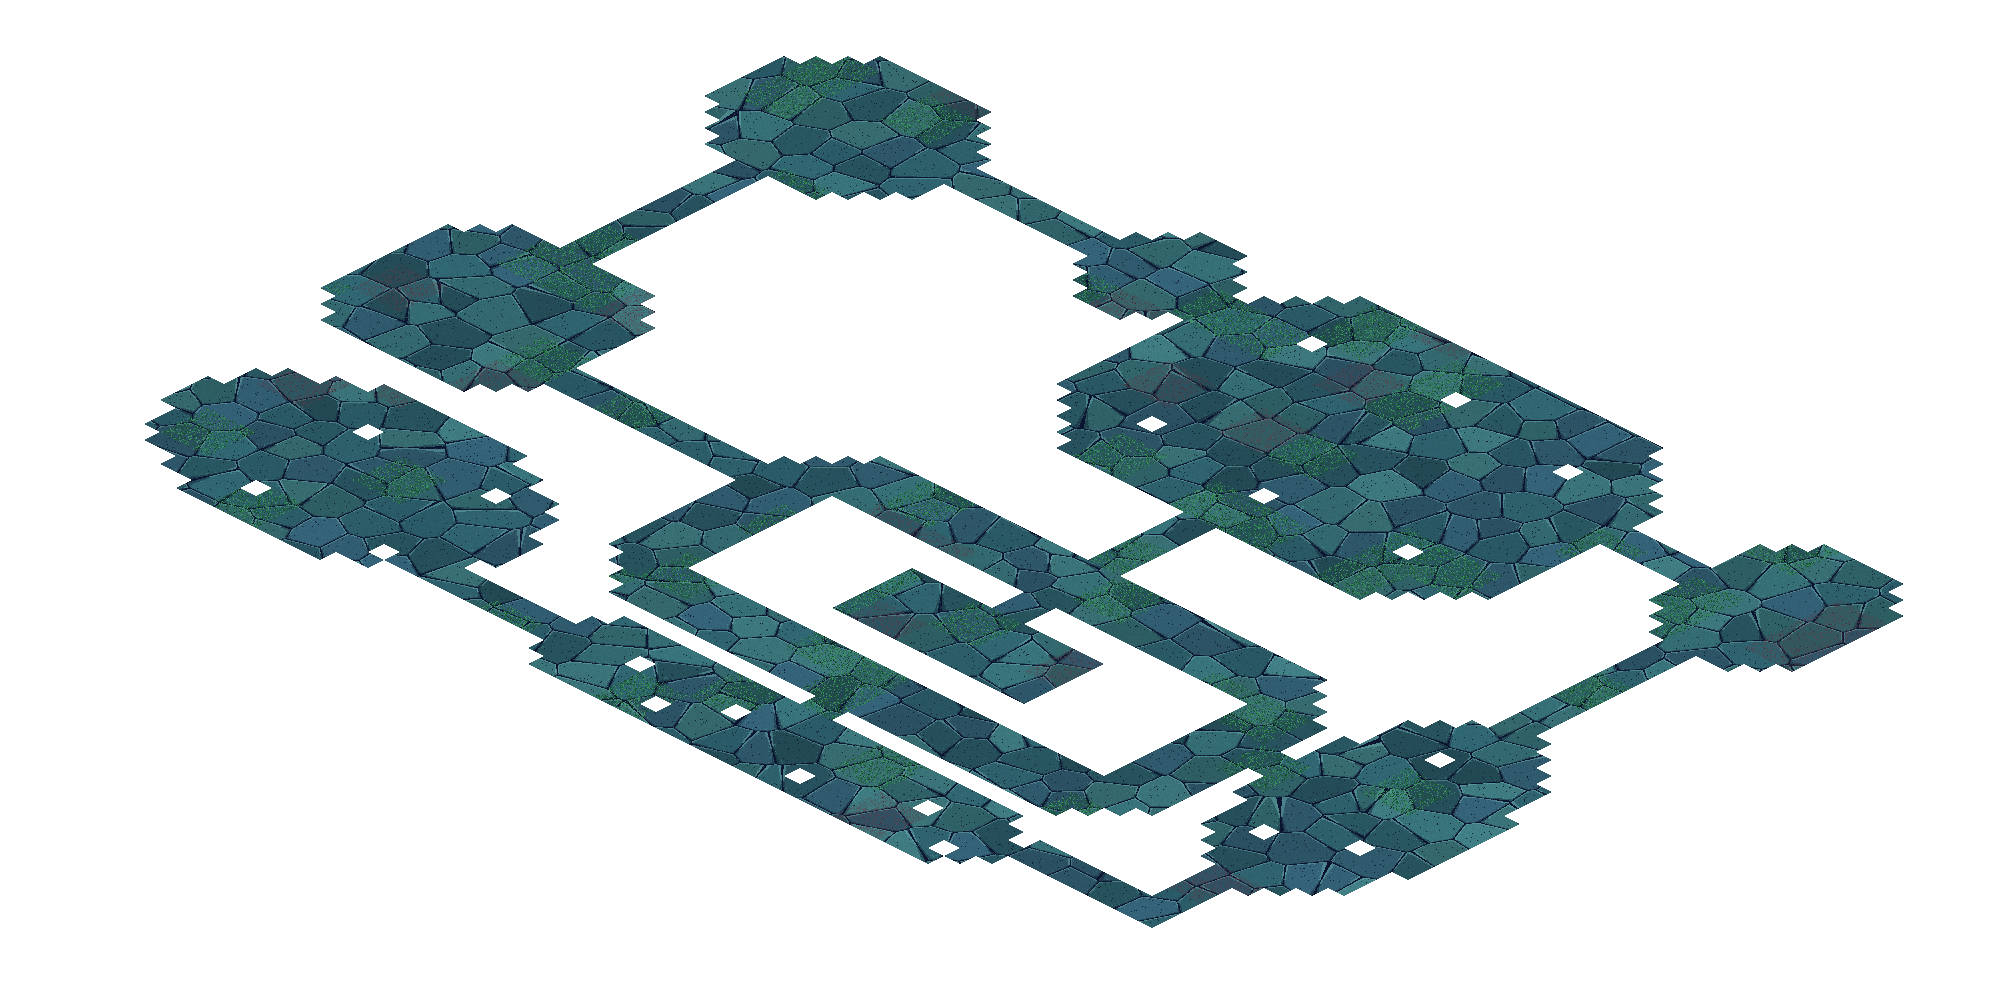
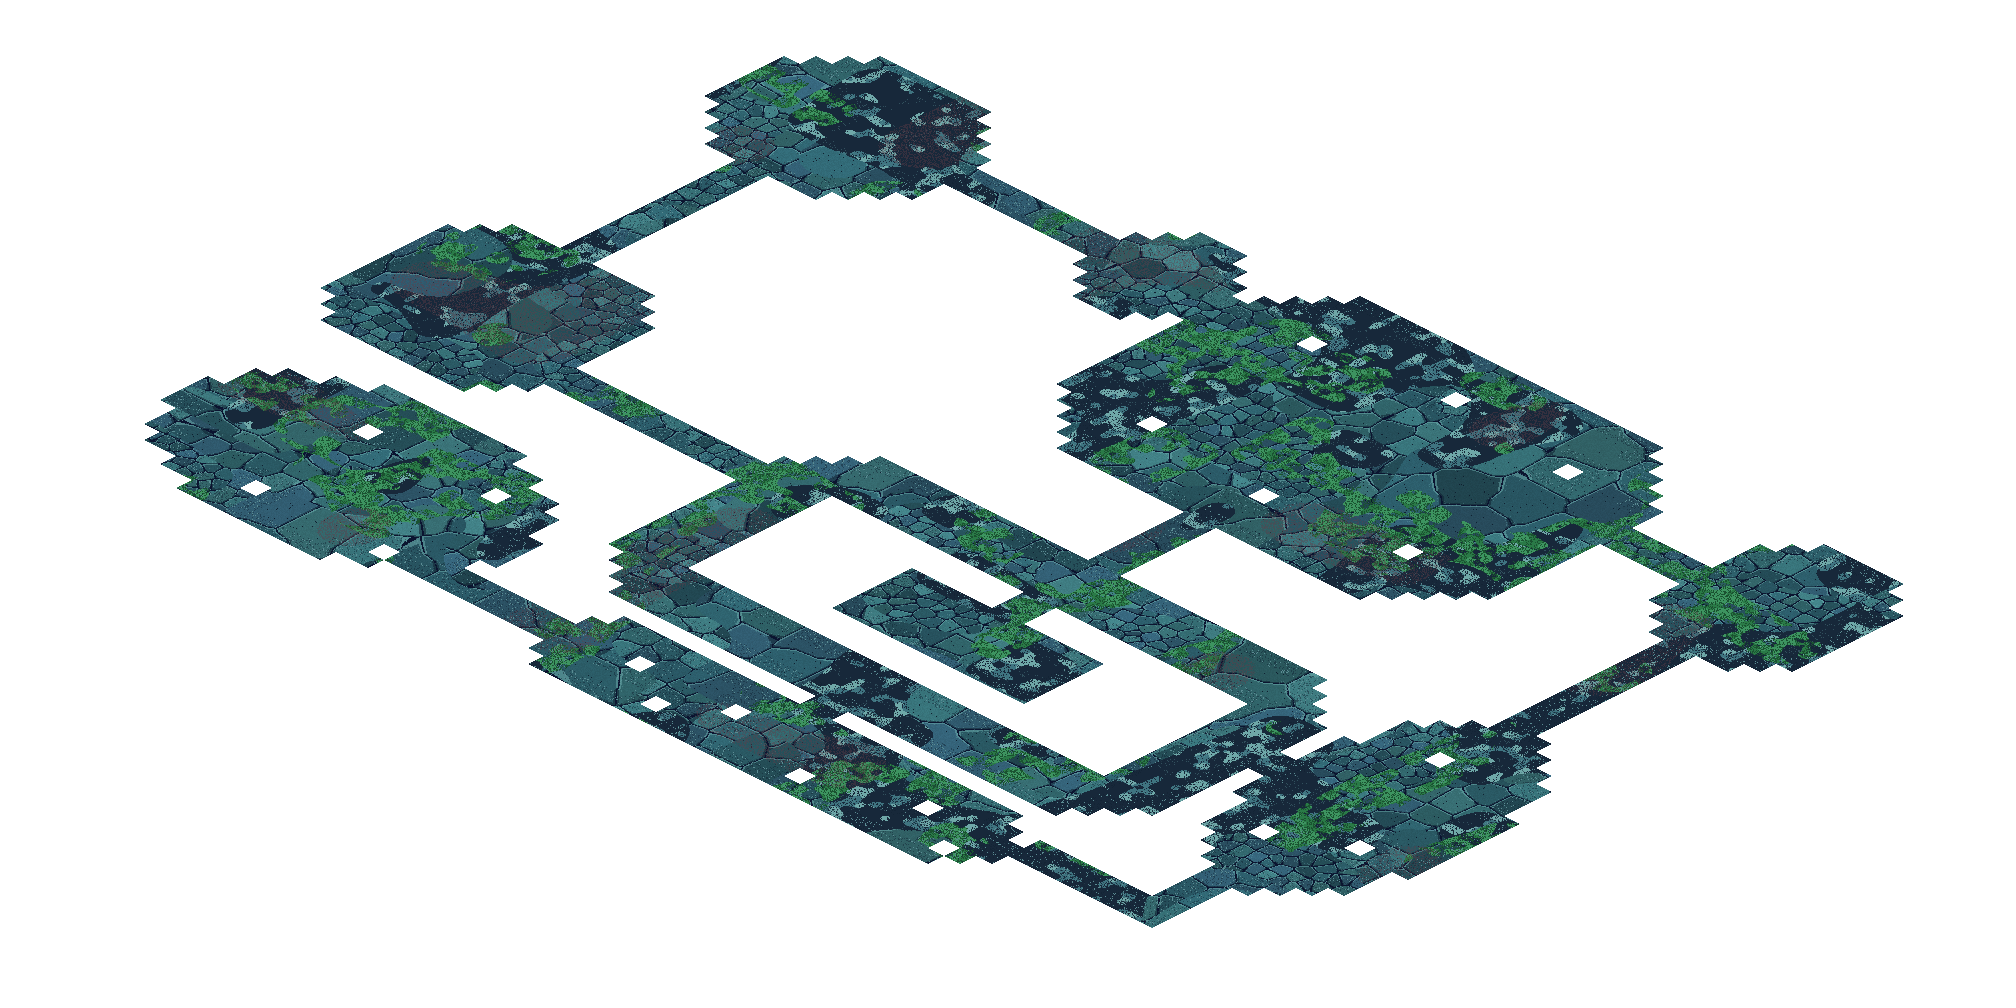
床の絵: 大小の石・がれき・苔の区画・壁ぎわの欠けを混ぜる

Changed region(s): [[0.0625, 0.0615, 0.9375, 0.9226]]

diff --git a/tools/tiles/make_floor_mural.py b/tools/tiles/make_floor_mural.py
@@ -50,73 +50,120 @@ for y, r in enumerate(rows):
         grid[y, x] = c != '#'
 floor[inside] = grid[cv[inside], cu[inside]]
 
-# ---- 不規則な石：ずらした格子点の最近傍（ボロノイ）。石の大きさは約 1.6〜2.6 マス ----
-CELL = 2.1
-gx = np.floor(u / CELL).astype(int)
-gy = np.floor(v / CELL).astype(int)
+# ---- 値ノイズ（なめらかな、場所ごとの偏り。大きな石の区画・がれきの区画・苔の区画に使う）----
+def value_noise(scale, seed):
+    r = np.random.default_rng(seed)
+    g = r.random((int(H / scale) + 3, int(W / scale) + 3)).astype(np.float32)
+    fu = u / scale
+    fv = v / scale
+    iu = np.clip(np.floor(fu).astype(int), 0, g.shape[1] - 2)
+    iv = np.clip(np.floor(fv).astype(int), 0, g.shape[0] - 2)
+    tu = np.clip(fu - iu, 0, 1)
+    tv = np.clip(fv - iv, 0, 1)
+    tu = tu * tu * (3 - 2 * tu)
+    tv = tv * tv * (3 - 2 * tv)
+    a = g[iv, iu] * (1 - tu) + g[iv, iu + 1] * tu
+    b = g[iv + 1, iu] * (1 - tu) + g[iv + 1, iu + 1] * tu
+    return a * (1 - tv) + b * tv
 
 
-def seed_of(ix, iy):
-    h = (ix * 73856093) ^ (iy * 19349663) ^ 0x5bd1e995
-    h = (h ^ (h >> 13)) * 1274126177
-    h = h ^ (h >> 16)
-    a = ((h & 0xFFFF) / 65535.0) * 0.8 + 0.1
-    b = (((h >> 16) & 0xFFFF) / 65535.0) * 0.8 + 0.1
-    return (ix + a) * CELL, (iy + b) * CELL, (h >> 5) & 0xFF
+def voronoi(cell, angular, salt):
+    """格子ごとに1点をずらして置き、最近傍で石を分ける。angular が大きいほど四角っぽい石になる"""
+    gx = np.floor(u / cell).astype(int)
+    gy = np.floor(v / cell).astype(int)
+    best = np.full((IH, IW), 1e9, dtype=np.float32)
+    second = np.full((IH, IW), 1e9, dtype=np.float32)
+    bid = np.zeros((IH, IW), dtype=int)
+    bdx = np.zeros((IH, IW), dtype=np.float32)
+    bdy = np.zeros((IH, IW), dtype=np.float32)
+    for oy in (-1, 0, 1):
+        for ox in (-1, 0, 1):
+            ix, iy = gx + ox, gy + oy
+            h = (ix * 73856093) ^ (iy * 19349663) ^ salt
+            h = (h ^ (h >> 13)) * 1274126177
+            h = h ^ (h >> 16)
+            sx = (ix + ((h & 0xFFFF) / 65535.0) * 0.7 + 0.15) * cell
+            sy = (iy + (((h >> 16) & 0xFFFF) / 65535.0) * 0.7 + 0.15) * cell
+            dx = u - sx
+            dy = v - sy
+            d = (1 - angular) * np.sqrt(dx * dx + dy * dy) + angular * np.maximum(np.abs(dx), np.abs(dy)) * 1.15
+            better = d < best
+            second = np.where(better, best, np.minimum(second, d))
+            bdx = np.where(better, dx, bdx)
+            bdy = np.where(better, dy, bdy)
+            bid = np.where(better, (h >> 5) & 0xFFFF, bid)
+            best = np.where(better, d, best)
+    return second - best, bid, bdx, bdy
 
 
-best = np.full((IH, IW), 1e9, dtype=np.float32)
-second = np.full((IH, IW), 1e9, dtype=np.float32)
-best_id = np.zeros((IH, IW), dtype=int)
-best_dx = np.zeros((IH, IW), dtype=np.float32)
-best_dy = np.zeros((IH, IW), dtype=np.float32)
-for oy in (-1, 0, 1):
-    for ox in (-1, 0, 1):
-        sx, sy, sid = seed_of(gx + ox, gy + oy)
-        dx = u - sx
-        dy = v - sy
-        d = np.sqrt(dx * dx + dy * dy)
-        better = d < best
-        second = np.where(better, best, np.minimum(second, d))
-        best_dx = np.where(better, dx, best_dx)
-        best_dy = np.where(better, dy, best_dy)
-        best_id = np.where(better, sid, best_id)
-        best = np.where(better, d, best)
-gap = second - best
+noise = rng.random((IH, IW))
+region = value_noise(5.0, 11)    # 大きな石の区画 ↔ 小さな石の区画
+rubble_zone = value_noise(4.0, 23)  # がれき（小石の散らばり）の区画
+moss_zone = value_noise(3.5, 37)
+stain_zone = value_noise(6.0, 41)
 
-# ---- 色 ----
+gap_b, id_b, dx_b, dy_b = voronoi(3.0, 0.55, 0x1111)   # 大きな板石
+gap_m, id_m, dx_m, dy_m = voronoi(1.5, 0.30, 0x2222)   # 中くらいの石
+gap_s, id_s, dx_s, dy_s = voronoi(0.8, 0.10, 0x3333)   # 小さな石
+use_big = region > 0.55
+use_small = region < 0.30
+gap = np.where(use_big, gap_b, np.where(use_small, gap_s, gap_m))
+sid = np.where(use_big, id_b, np.where(use_small, id_s, id_m))
+sdx = np.where(use_big, dx_b, np.where(use_small, dx_s, dx_m))
+sdy = np.where(use_big, dy_b, np.where(use_small, dy_s, dy_m))
+width = np.where(use_big, 0.20, np.where(use_small, 0.13, 0.17))  # 縁の幅（マス）：大きな石ほど厚み
+
 img = np.zeros((IH, IW, 3), dtype=np.float32)
-tone_idx = best_id % len(STONE)
+tone_idx = sid % len(STONE)
 for i, col in enumerate(STONE):
     img[tone_idx == i] = col
-bright = 1.0 + ((best_id >> 3) % 7 - 3) * 0.035
+bright = 1.0 + ((sid >> 3) % 9 - 4) * 0.04
 img *= bright[..., None]
-noise = rng.random((IH, IW))
 img *= (1.0 + (noise - 0.5) * 0.10)[..., None]       # 石の粒
-# 目地と縁取り（左上の縁は明るく、右下の縁は暗く）
-edge = gap < 0.17
-facing = (best_dx + best_dy) > 0   # 石の中心から見て右下側＝影
-img[edge & ~facing] = img[edge & ~facing] * 0.55 + LIGHT * 0.45
-img[edge & facing] = img[edge & facing] * 0.55 + DARK * 0.45
-mortar = gap < 0.06
+# 地面（がれきの区画）：暗い土に、小石を散らす
+rub = rubble_zone > 0.62
+ground = np.where(rub[..., None], hx('#17283a'), img)
+img = ground
+pebble_id = value_noise(0.55, 77)
+pebble = rub & (pebble_id > 0.62) & (noise > 0.2)
+pebble_lit = pebble & (value_noise(0.55, 78) > 0.5)
+img[pebble] = hx('#3f7480')
+img[pebble_lit] = hx('#6fa8a8')
+# 縁取り：左上の縁は明るく、右下の縁は暗く。大きな石ほど厚い
+facing = (sdx + sdy) > 0
+edge = (gap < width) & ~rub
+img[edge & ~facing] = img[edge & ~facing] * 0.5 + LIGHT * 0.5
+img[edge & facing] = img[edge & facing] * 0.45 + DARK * 0.55
+mortar = (gap < 0.055) & ~rub
 img[mortar] = MORTAR
-# 割れ目：石の中に、短い暗い線
-crack = (noise > 0.985) & (gap > 0.2)
+# 割れ目・砂利・苔・染み
+crack = (noise > 0.987) & (gap > 0.2) & ~rub
 img[crack] = DARK
-# 砂利：目地の近くに、明暗の点
-gravel = (gap < 0.35) & (noise > 0.93)
+gravel = (gap < 0.4) & (noise > 0.92)
 img[gravel] = img[gravel] * 0.7 + LIGHT * 0.3
-# 苔：低い周波数のかたまり
-coarse = rng.random((H // 3 + 2, W // 3 + 2)).astype(np.float32)
-mu = np.clip((u / 3).astype(int), 0, coarse.shape[1] - 1)
-mv = np.clip((v / 3).astype(int), 0, coarse.shape[0] - 1)
-mossy = (coarse[mv, mu] > 0.80) & (noise > 0.55)
+mossy = (moss_zone > 0.62) & (value_noise(0.7, 91) > 0.42)
 for i, col in enumerate(MOSS):
-    sel = mossy & (rng.integers(0, 3, (IH, IW)) == i)
+    sel = mossy & (rng.integers(0, 3, (IH, IW)) == i) if i == 2 else mossy & (value_noise(0.35, 95 + i) > 0.5)
     img[sel] = col
-# 赤茶の染み（血・錆）
-rusty = (coarse[mv, mu] < 0.07) & (noise > 0.6)
-img[rusty] = img[rusty] * 0.5 + RUST * 0.5
+rusty = (stain_zone < 0.28) & (noise > 0.55)
+img[rusty] = img[rusty] * 0.55 + RUST * 0.45
+# 床の端（壁・崖のきわ）：欠けた石とがれき。縁から 0.6 マス以内に、暗い点と小石を散らす
+nb = np.zeros((IH, IW), dtype=bool)
+wallgrid = ~grid
+for dy_ in (-1, 0, 1):
+    for dx_ in (-1, 0, 1):
+        if dx_ == 0 and dy_ == 0:
+            continue
+        ncu = np.clip(cu + dx_, 0, W - 1)
+        ncv = np.clip(cv + dy_, 0, H - 1)
+        nb |= inside & wallgrid[ncv, ncu]
+fu_ = u - cu
+fv_ = v - cv
+near_edge = nb & floor & ((np.minimum(fu_, 1 - fu_) < 0.45) | (np.minimum(fv_, 1 - fv_) < 0.45))
+debris = near_edge & (noise > 0.80)
+img[debris] = img[debris] * 0.5 + DARK * 0.5
+debris2 = near_edge & (noise > 0.94)
+img[debris2] = hx('#5b8c93')
 
 out = np.zeros((IH, IW, 4), dtype=np.uint8)
 out[..., :3] = np.clip(img, 0, 255).astype(np.uint8)
